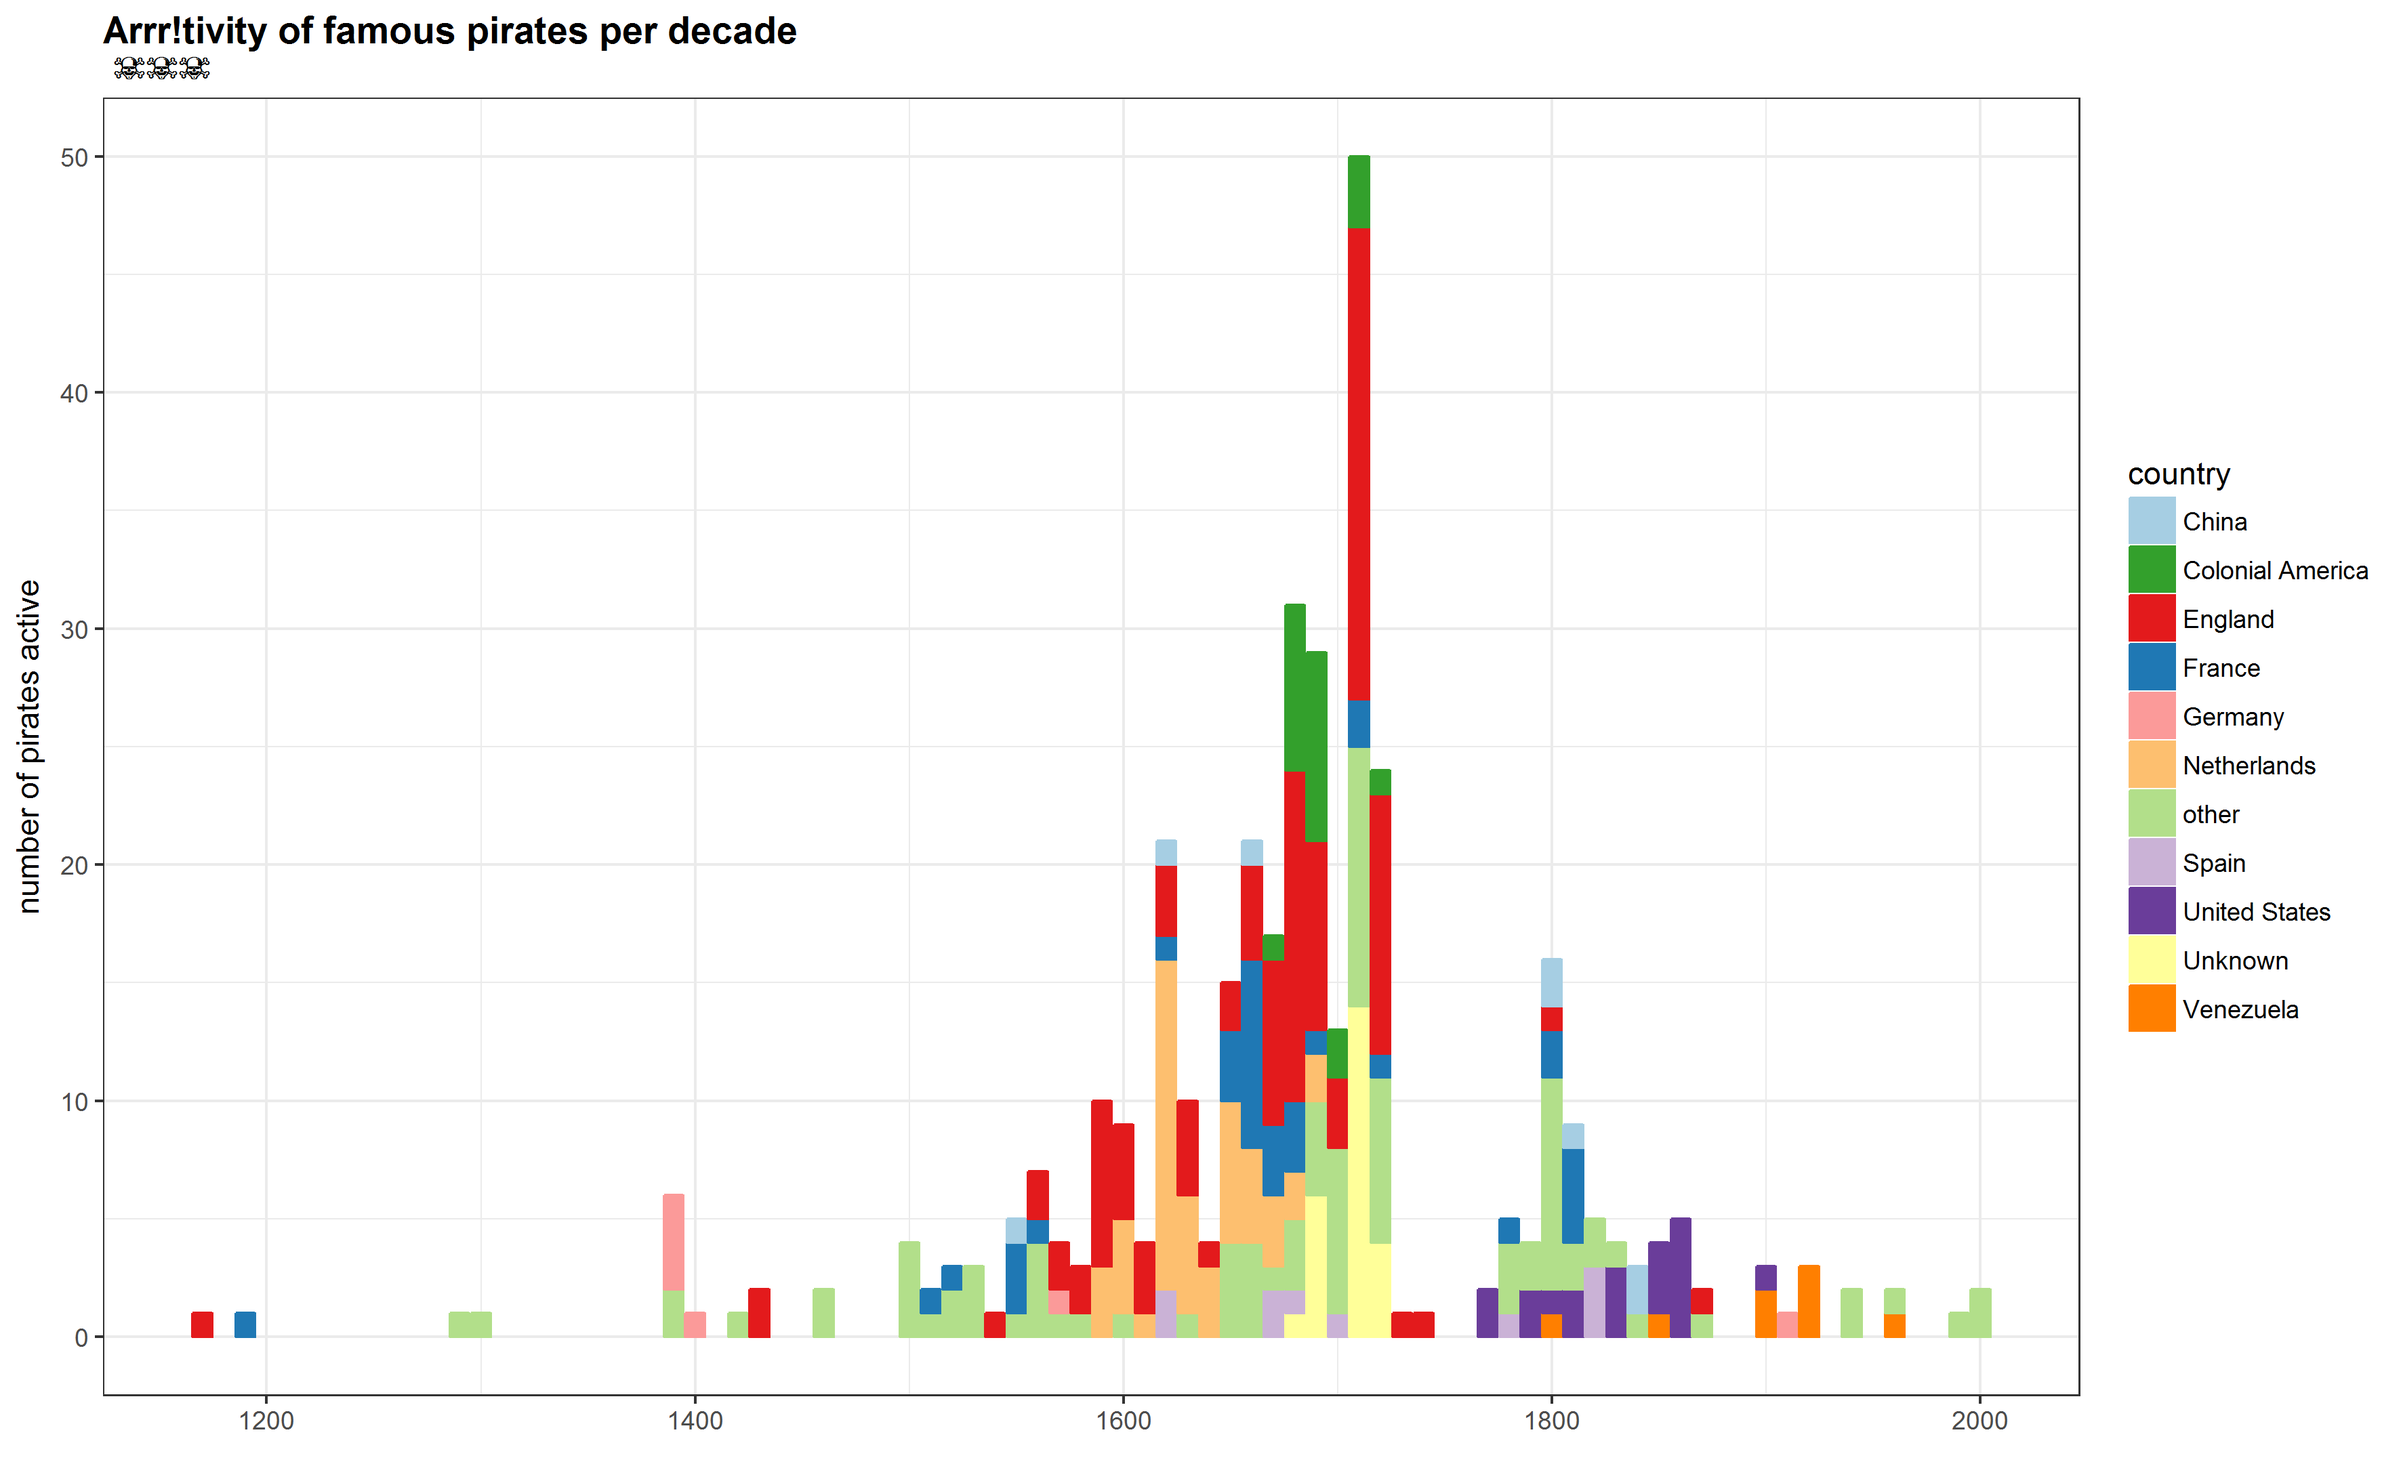
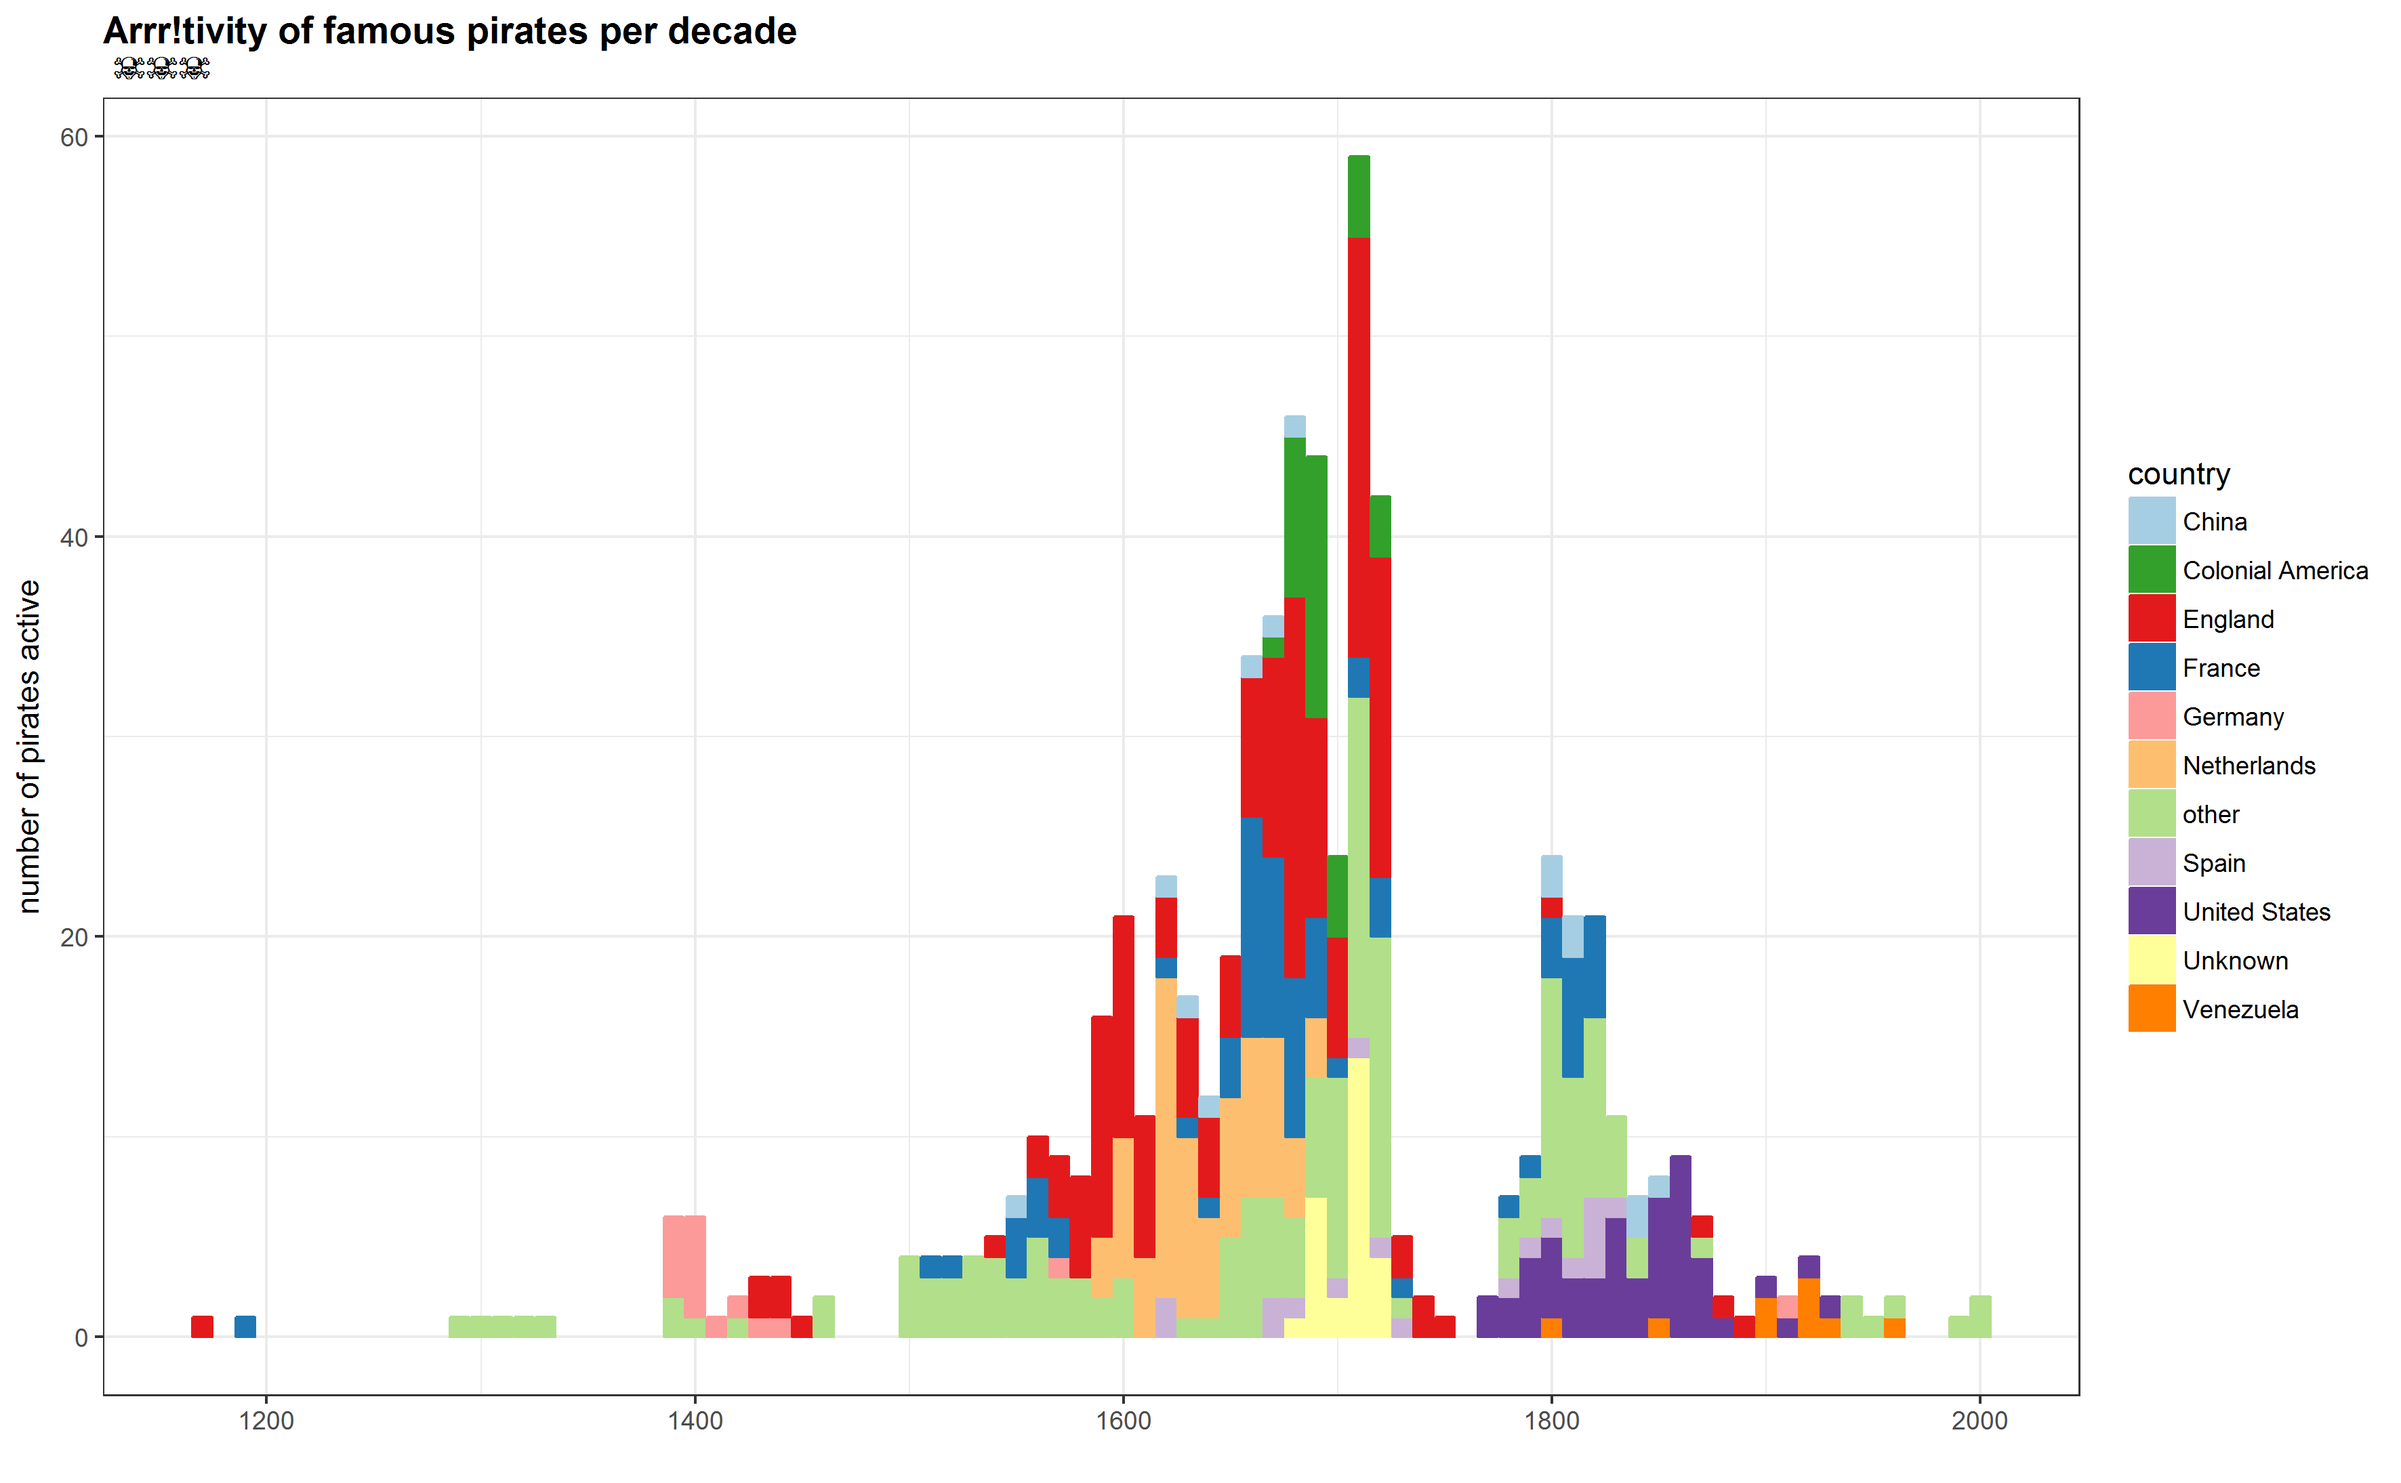
PR version of pirate post

Changed region(s): [[0.3726, 0.2796, 0.8072, 0.9009], [0.2794, 0.8077, 0.3415, 0.9009], [0.1863, 0.8698, 0.2484, 0.9009]]

diff --git a/_posts/2017-09-19-pirates.md b/_posts/2017-09-19-pirates.md
@@ -15,6 +15,9 @@ share: true
 ![pirates arr, not err!]({{ site.url }}/images/safferli/to-err-to-arr.jpg)
 {: .center}
 
+> Q: What has 8 legs, 8 arms and 8 eyes?  
+> A: 8 pirates.
+
 Avast, ye scurvy scum! Today be September 19, the [International Talk Like A Pirate Day](https://en.wikipedia.org/wiki/International_Talk_Like_a_Pirate_Day). While it's a silly "holiday", it's a great chance to switch your Facebook to [Pirate English](http://socmedianews.com/2009/05/facebook-fun-aaargchange-your-language-to-pirate-english/) ("Arr, this be pleasing to me eye!"). Also, it's as good a reason as any to go sailing the Internet Main, scouring for booty (data)! 
 
 Well, any excuse, y'know... 
@@ -24,14 +27,12 @@ What is today known (more or less) as "Pirate English" (the bit with all the "ar
 More useless information on pirates (such as that there is no historical evidence of a pirate ever owning a parrot as a pet -- again this stereotype evolved from the Treasure Island movie) is on the wonderful as always treasure trove of superfluous information, the [QI page on pirates](http://qi.com/infocloud/pirates).  
 
 
-# life expectancy after birth ~50: https://ourworldindata.org/life-expectancy/
-
 
 # Data
 
-Now, let's get some data on pirates. I thought I had seen data on historical shipping, and also piracy somewhere a while ago, but I cannot find it any more. So, I'll do what any self-respecting student would do and grab data from Wikipedia.  There is a [list of famous pirates](https://en.wikipedia.org/w/index.php?title=List_of_pirates); it's biased, of course. I see relatively few entries on Barbary pirates, for instance. No matter, the list covers most of the Golden Age of Piracy, and I'll use it to generate a dataset on the caribbean pirates. 
+First, let's get some data on pirates. I have some hazy memories on seeing data on historical shipping, and also piracy somewhere a while ago, but I cannot find it any more. I must be getting older. So, I'll do what any self-respecting young whippersnapper would do and grab data from Wikipedia.  There is a [list of famous pirates](https://en.wikipedia.org/w/index.php?title=List_of_pirates); it's biased, of course. I see relatively few entries on Barbary pirates, for instance. No matter, the list covers most of the Golden Age of Piracy in the Caribbean, and I'll use it to generate a dataset on these pirates. 
 
-We'll grab the wiki page, linking for the static ID of the page for reproducability. 
+We'll grab the wiki page, linking to the static ID of the page for reproducability. 
 
 {% highlight R %}
 ## retrieve wikipedia list of pirates page
@@ -71,35 +72,176 @@ pirates.raw <- pirates.wiki %>%
   select(Name, Life, Country.of.origin, Years.active, Comments)
 {% endhighlight %}
 
-With the data now set up, we can set out to graph the pirate activity, and also to build a random pirate generator! 
+With the raw data pulled, we now need to clean it a bit. Our goal is to generate a data set of the "pirating times" of each individual pirate. Wiki lists the active times, the "flourished" times, and/or the life times. We'll split the age columns (usually yyyy-yyyy) into two, providing some padding if there is only one of the dates available. After this, we'll clean up the columns into integer columns, ignoring the rows with did not provide accurate enough year data (e.g. "17th century"). This is a fun project, not a scientific one. 
+
+{% highlight R %}
+## generate our pirating times dataset
+pirates.dta <- pirates.raw %>% 
+  mutate(
+    # born and died forced into the "yyyy-yyyy" schedule for later tidyr::separate()
+    Life.parsed = gsub("(b.|born) *([[:digit:]]+)", "\\2-", x = Life),
+    Life.parsed = gsub("(d.|died) *([[:digit:]]+)", "-\\2", x = Life.parsed),
+    Years.active = gsub("(to) *([[:digit:]]+)", "-\\2", x = Years.active),
+    # move the "flourished" dates to its own column
+    flourished = if_else(grepl("fl.", Life.parsed), gsub("fl. *", "", Life.parsed), as.character(NA)),
+    # remove "flourished" dates from life
+    Life.parsed = if_else(grepl("fl.", Life.parsed), as.character(NA), Life.parsed)
+  ) %>% 
+  # split the life, active, and flourished years into 2 columns (start/stop), each
+  separate(Life.parsed, c("born", "died"), sep = "-", extra = "merge", fill = "right") %>% 
+  separate(Years.active, c("active.start", "active.stop"), sep = "-", extra = "merge", fill = "right", remove = FALSE) %>% 
+  separate(flourished, c("fl.start", "fl.stop"), sep = "-", extra = "merge", fill = "right", remove = FALSE) %>% 
+  # 
+  mutate_at(
+    vars(born, died, active.start, active.stop, fl.start, fl.stop), 
+    f.keep.last.four.digits
+  ) %>% 
+  mutate_at(
+    vars(born, died, active.start, active.stop, fl.start, fl.stop),
+    #as.integer
+    parse_integer
+  ) %>%
+  # get the best guess of piracing time: active > flourished > estimated from life
+  mutate(
+    # take active if available, if not take flourished
+    piracing.start = if_else(is.na(active.start), fl.start, active.start),
+    piracing.stop = if_else(is.na(active.stop), fl.stop, active.stop),
+    # neither active, nor flourished date, estimate from life
+    piracing.start = if_else(is.na(piracing.start)&is.na(piracing.stop), f.activity.from.life(b = born, d = died), piracing.start),
+    piracing.stop = if_else(is.na(piracing.start)&is.na(piracing.stop), f.activity.from.life(b = born, d = died, return.b = FALSE), piracing.stop),
+    # finally, let's get single-year start/stops cleaned up
+    piracing.start = if_else(is.na(piracing.start), piracing.stop, piracing.start), 
+    piracing.stop = if_else(is.na(piracing.stop), piracing.start, piracing.stop)
+  ) %>% 
+  # reorder
+  select(Name, Life, piracing.start, piracing.stop, Country.of.origin, everything()) 
+{% endhighlight %}
+
+With the dataset now sufficiently cleared up, we will now change the dates to decades only -- so change 1643 to 1640. We'll graph our data by decade. We'll use some `rowwise() %>% do()` magic to generate one row per pirate per activity decade (so two rows if he was active from 1648 to 1651). We will add up the pirates active in each decade to get to our visualisation of pirate activity, and some pirates were active for far longer than others! 
+
+{% highlight R %}
+## building the pirate activity, with each pirate having one row per decade in which he was active
+pirate.activity <- pirates.dta %>% 
+  mutate(
+    piracing.start = piracing.start %/%10L*10L,
+    piracing.stop = piracing.stop %/%10L*10L,
+    arrr = piracing.stop - piracing.start,
+    country = if_else(Country.of.origin %in% top.n.countries(10), Country.of.origin, "other")
+  ) %>% 
+  filter(piracing.start > 1000) %>% 
+  rowwise() %>% 
+  do(
+    data.frame(
+      Name = .$Name,
+      Life = .$Life, 
+      piracing.start = .$piracing.start,
+      piracing.stop = .$piracing.stop,
+      # need one row per decade active 
+      piracing.years = seq(.$piracing.start, .$piracing.stop, by = 10L),
+      arrr = .$arrr,
+      Country.of.origin = .$Country.of.origin,
+      country = .$country, 
+      stringsAsFactors = FALSE
+    )
+  )
+{% endhighlight %}
+
+With the data now set up, we can set out to graph the pirate activity, and then also to build a random pirate generator! 
 
 
 # Pirates in Action
 
+Let's take a look at the countries these famous pirates came from: 
 
 {% highlight R %}
+pirates.raw %>% 
+  group_by(Country.of.origin) %>% 
+  tally(sort = TRUE) %>% 
+  head(15)
+{% endhighlight %}  
 
+|Country.of.origin |   n|
+|:-----------------|---:|
+|England           | 108|
+|Netherlands       |  47|
+|France            |  39|
+|Unknown           |  25|
+|Colonial America  |  22|
+|United States     |  19|
+|Spain             |  10|
+|China             |   9|
+|Venezuela         |   8|
+|Germany           |   7|
+|Ireland           |   7|
+|Wales             |   7|
+|Scotland          |   6|
+|Ottoman Empire    |   4|
+|Portugal          |   4|
+
+England is over-represented by quite a large margin, especially if you group Wales/Scotland/Ireland, and potentially Colonial America. The Netherlands and France come in second and third place, respectively. No big surprises here. 
+
+We'll pull the data on pirate activity to build a graph of the overall pirate activity over the decades. This is a rather straightforward bar chart: 
+
+{% highlight R %}
+## pirate activity per decade
+pirate.activity %>% 
+  ungroup() %>% 
+  #ungroup.rowwise_df() %>% 
+  group_by(piracing.years, country) %>% 
+  tally() %>% 
+  ggplot(aes(x=piracing.years, y=n))+
+  geom_bar(aes(fill=country, colour=country), stat = "identity", position = "stack")+
+  # scale_fill_brewer(type = "qual", palette = 3)+
+  # scale_colour_brewer(type = "qual", palette = 3)+
+  scale_fill_manual(values = my.colours)+
+  scale_colour_manual(values = my.colours)+
+  theme_bw()+
+  theme(plot.title = element_text(lineheight=.8, face="bold"))+
+  labs(
+    title = "Arrr!tivity of famous pirates per decade\n \u2620\u2620\u2620", 
+    x = "", 
+    y = "number of pirates active"
+  )
 {% endhighlight %}
 
-Behold, 1200 years of cherry blossom history! 
-
-![sakura plot]({{ site.url }}/images/safferli/sakura.png)
+![pirate activity over the decades]({{ site.url }}/images/safferli/piracy-country-time.png)
 {: .center}
 
+One can nicely see the increase in pirate's activity during the Golden Age (roughly 1560-1700). It drops shortly in 1700, building up again shortly thereafter. The middle of the 18th century is more or less free from pirates (at least those infamous enough to end up on Wikipedia), until piracy starts again around 1800 with the English-French wars. The Somalian pirates of the 2000s are the last on the graph! 
 
-kable(dt) %>%
-  kable_styling(bootstrap_options = "striped", full_width = F)
+This leads us to the next questions: Somalia was the heyday of pirates in the 2000s, but we cannot reasonably expect it to be in the 1600s. When was a country's individual golden age of pirating? 
+
+To answer this, we'll build a ridgeplot (formaly also known as a joyplot, from the Joy Division band t-shirt; the name is now [discouraged for obvious reasons](https://en.wikipedia.org/wiki/House_of_Dolls)), showcasing the density plots of pirate activity per country. 
+
+{% highlight R %}
+## piracy golden age by top n (15) countries
+pirates.dta %>% 
+  filter(piracing.start > 1000) %>% 
+  filter(Country.of.origin %in% top.n.countries(15)) %>% 
+  ggplot()+
+  geom_density_ridges(aes(x = piracing.start, y = Country.of.origin, fill = Country.of.origin))+
+  theme_bw()+
+  theme(plot.title = element_text(lineheight=.8, face="bold"))+
+  labs(
+    title = "Pirate activity by country\n \u2620\u2620\u2620", 
+    x = "", 
+    y = "country"
+  )
+{% endhighlight %}
+
+![pirate activity over the decades; per country]({{ site.url }}/images/safferli/piracy-by-country.png)
+{: .center}
 
 
 
 # A Pirate's Life For Me!
 
-With the historical data on pirates and their activity times, we can generate a random pirate story! For this, we will restrict the data to the golden age of piracy (roughly 1500-1700). Since most of the pirates in the dataset are actually from the golden age, drop all pirates with started piracy before 1500, and after 1750. 
+With the historical data on pirates and their activity times, we can also try to generate a random pirate story! For this, we will restrict the data to the golden age of piracy, dropping all pirates which started their pirate life before 1500, and after 1750. We will want to create a random pirate with a statistically "correct" starting year of piracy, a statistically "correct" piracy tenure, and varnish him (or her) with a random pirate name! 
 
 
 ## Golden Age Pirate: starting piracy year
 
-From these pirates, let's have a look when they started their pirating activities. 
+Let's start with the pirating starting activity year. 
 
 {% highlight R %}
 pirates.fit <- pirates.dta %>% 
@@ -129,7 +271,7 @@ f.gen.pirating.startyear <- function() {
 
 ## Golden Age Pirate: piracing tenure
 
-We have better luck with the tenure of a pirate: the distribution is clearly exponential. 
+We have better luck with the tenure of a pirate: the distribution follows a nice count-data distribution, I'm guessing a negative binomial. 
 
 {% highlight R %}
 pirates.fit %>% 
@@ -157,7 +299,7 @@ The results are excellent: we can clearly see the oversampling of "round" years 
 ![pirates' tenure estimation]({{ site.url }}/images/safferli/pirate-tenure-negbin.png)
 {: .center}
 
-We can thus draw a random tenure for a pirate by this function: 
+We can thus draw a random tenure for a pirate by using this function: 
 
 {% highlight R %}
 f.gen.pirating.tenure <- function() {
@@ -199,7 +341,7 @@ f.gen.pirate.name <- function(female = FALSE) {
 
 ## Golden Age Pirate: a pirate's story! 
 
-With all the pieces set up, we can now generate a random pirate! 
+With all the pieces set up, we can now generate a random pirate: 
 
 {% highlight R %}
 f.pirate.story <- function(female = FALSE) {
@@ -232,6 +374,8 @@ f.pirate.story <- function(female = FALSE) {
 # Concluding remarks
 
 The code is available on [github](https://github.com/safferli/pirates), as always. 
+
+I wish I could find those historical shipping and piracy data again -- any hints or pointers are very much appreciated! 
 
 
 
